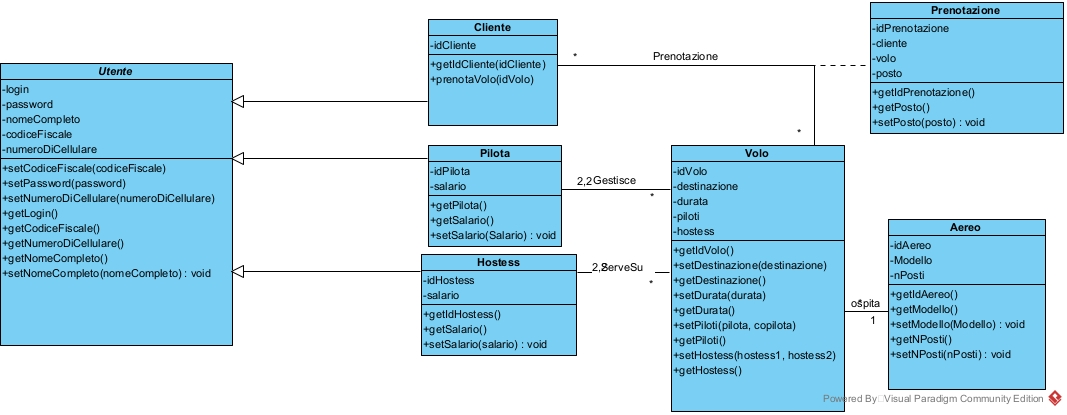
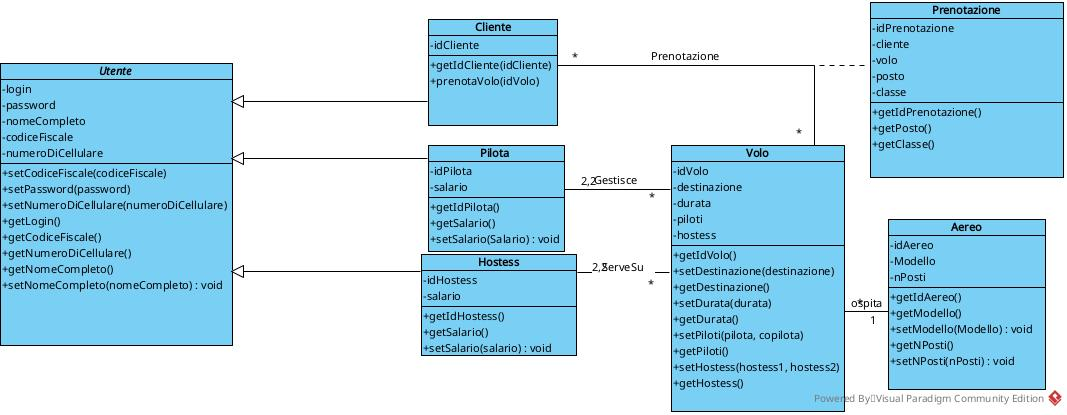
Final Commit Primo Homework

diff --git a/documentazione/primoHomework/DoumentazioneMarkDown.md b/documentazione/primoHomework/DoumentazioneMarkDown.md
@@ -1,0 +1,33 @@
+# Documentazione 
+### Il dominio di interesse che abbiamo scelto è quello del sistema informativo di un aeroporto, che considera le entità cliente, hostess, e pilota (ereditanti dall’entità Utente), volo, aereo, e posto. Lo scopo è quello di gestire le prenotazioni eseguite dai clienti e assegnarle al determinato posto di un determinato volo. Ad ogni volo sono assegnati due piloti (pilota e co-pilota) e due hostess, inoltre ai clienti è possibile scegliere 4 classi diverse per quanto riguarda il posto.
+
+
+` (ECONOMY, ECONOMYPLUS, BUSINESS, PRIMA) `
+
+* le entità usate sono Utente, pilota, cliente, hostess, volo, aereo, posto.
+
+* Utente è specializzata in pilota, cliente, o hostess.
+
+* Un cliente è la specializzazione di un Utente, come lo è un pilota o un’hostess.
+
+>Un cliente è in relazione con volo tramite la classe prenotazione, dove un cliente prenota un qualsiasi numero di voli e un volo è prenotato da un qualsiasi numero di clienti.
+
+> Un pilota gestisce un qualsiasi numero di voli, ed un’hostess serve su un qualsiasi numero di voli, mentre un singolo volo è gestito da precisamente due piloti e su di esso servono precisamente due hostess.
+
+> Un volo può avvenire su un singolo aereo, e un singolo aereo può ospitare un qualsiasi numero di voli.
+
+> L’entità astratta Utente dispone degli attributi login, password, nomeCompleto, codiceFiscale e numeroDiCellulare, tutti di tipo String, e dispone degli appropriati metodi di setter (escludendo login che funge da chiave primaria) e getter (escludendo password).
+
+> La classe Cliente dispone dell’attributo idCliente di tipo String, il suo getter e il metodo prenotaVolo, che crea una prenotazione per un determinato volo in un determinato posto, e una determinata classe.
+
+ >La classe Pilota dispone degli attributi idPilota di tipo String e Salario di tipo double, e degli appropriati getter e setter.
+
+>La classe Hostess dispone degli attributi idHostess di tipo String e Salario di tipo double, e degli appropriati getter e setter.
+
+>La classe Volo dispone degli attributi idVolo di tipo String, destinazione di tipo String, durata di tipo int (espressa in minuti), piloti che è un’Array[2] di Pilota e hostess che è un’Array[2] di Hostess, oltre che appropriati getter e setter.
+
+>La classe prenotazione dispone degli attributi idPrenotazione di tipo String, un Cliente ed un Volo, e posto di tipo String, e una classe di tipo enumerativo oltre che appropriati getter e setter.
+
+>La classe Aereo dispone degli attributi idAereo di tipo String, Modello di tipo String e nPosti di tipo int, oltre che appropriati getter e setter.
+>
+![[Agenzia.png]]